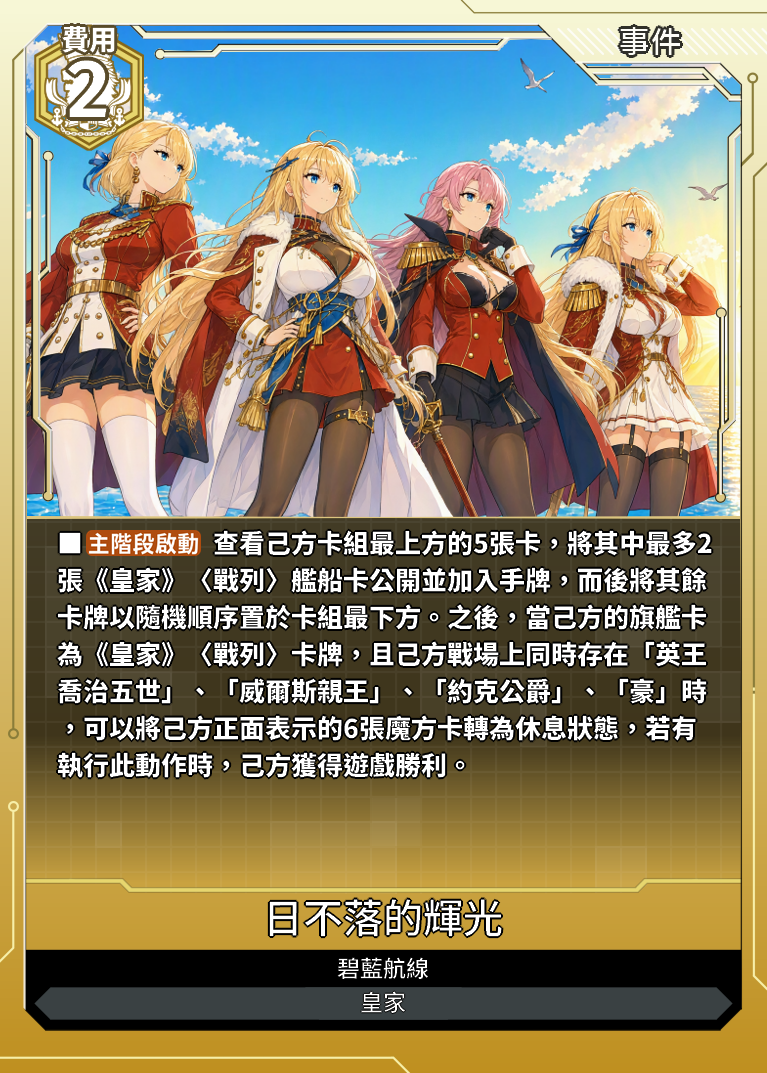
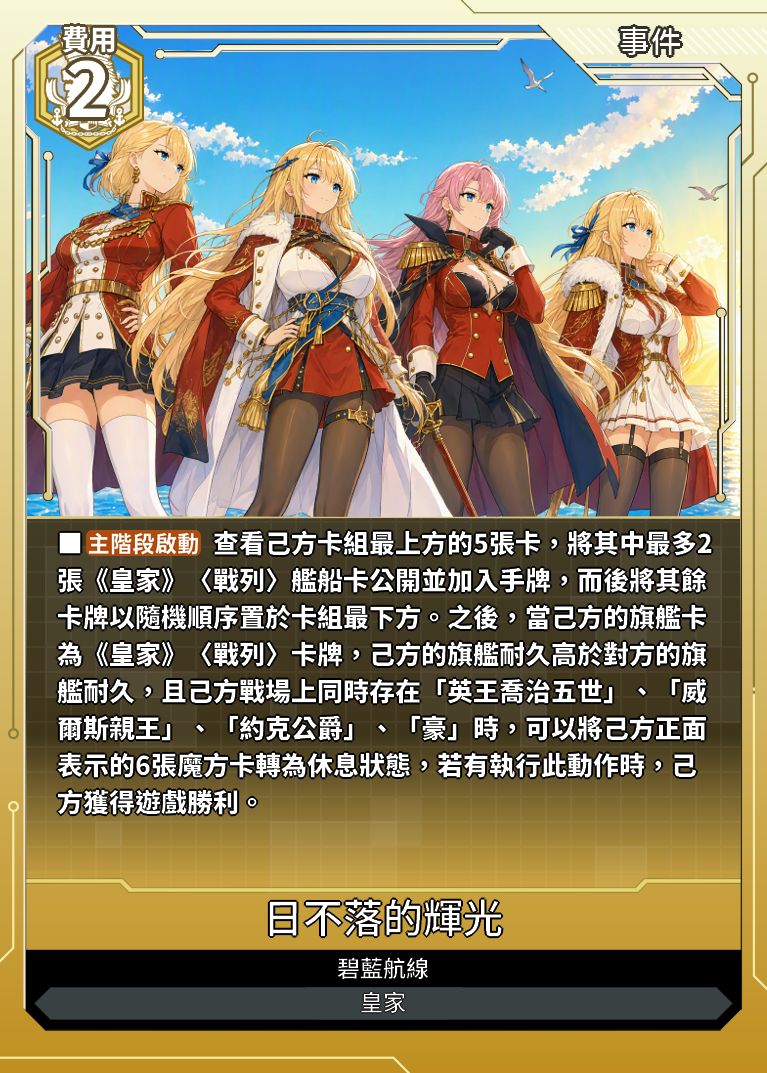
小改日不落的輝光

Changed region(s): [[0.06, 0.5843, 0.9296, 0.7689]]

diff --git a/data.js b/data.js
@@ -27188,7 +27188,7 @@ const cards = [
             "支援範圍": "-",
             "支援值": "-"
         },
-        "card_effect": "■【主階段啟動】查看己方卡組最上方的5張卡，將其中最多2張《皇家》〈戰列〉艦船卡公開並加入手牌，而後將其餘卡牌以隨機順序置於卡組最下方。之後，當己方的旗艦卡為《皇家》〈戰列〉卡牌，且己方戰場上同時存在「英王喬治五世」、「威爾斯親王」、「約克公爵」、「豪」時，可以將己方正面表示的6張魔方卡轉為休息狀態，若有執行此動作時，己方獲得遊戲勝利。",
+        "card_effect": "■【主階段啟動】查看己方卡組最上方的5張卡，將其中最多2張《皇家》〈戰列〉艦船卡公開並加入手牌，而後將其餘卡牌以隨機順序置於卡組最下方。之後，當己方的旗艦卡為《皇家》〈戰列〉卡牌，己方的旗艦耐久高於對方的旗艦耐久，且己方戰場上同時存在「英王喬治五世」、「威爾斯親王」、「約克公爵」、「豪」時，可以將己方正面表示的6張魔方卡轉為休息狀態，若有執行此動作時，己方獲得遊戲勝利。",
         "acquisition_method": "CE03-早期測試"
     },
 	{
